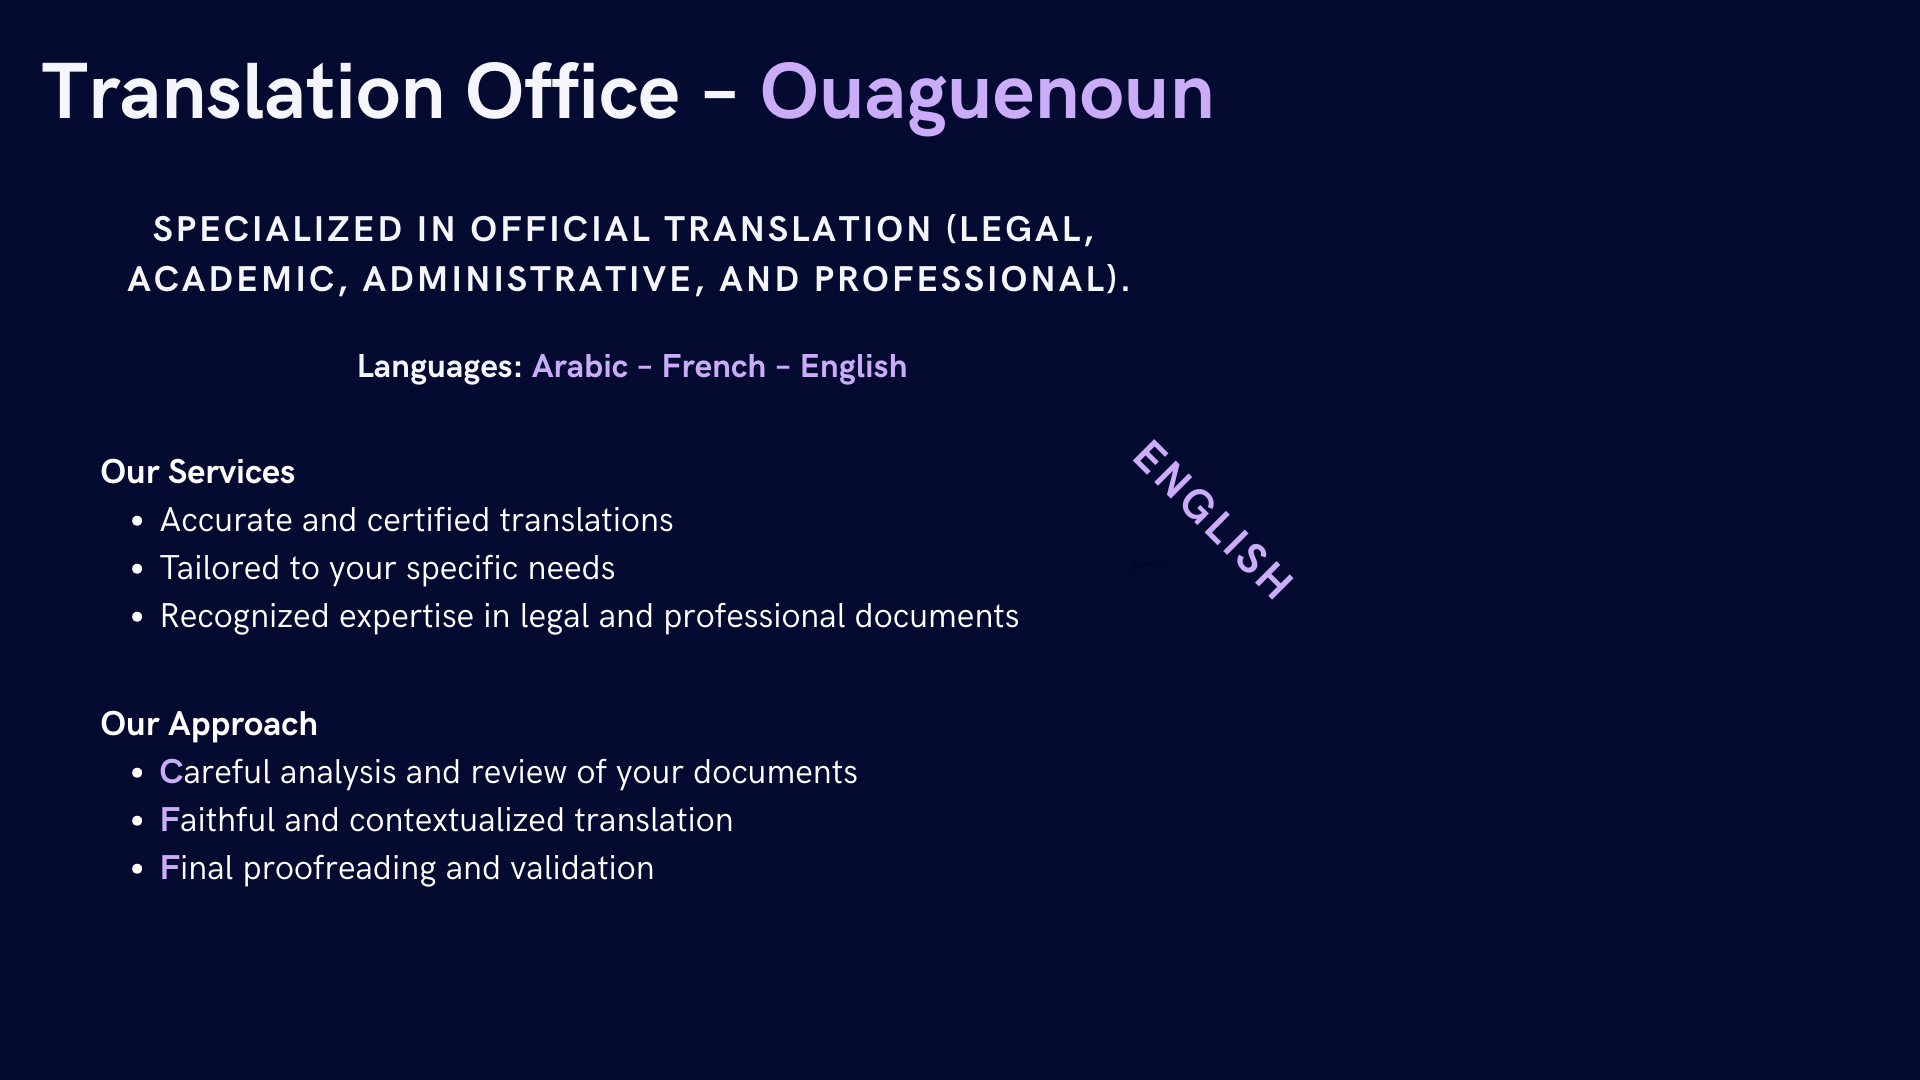
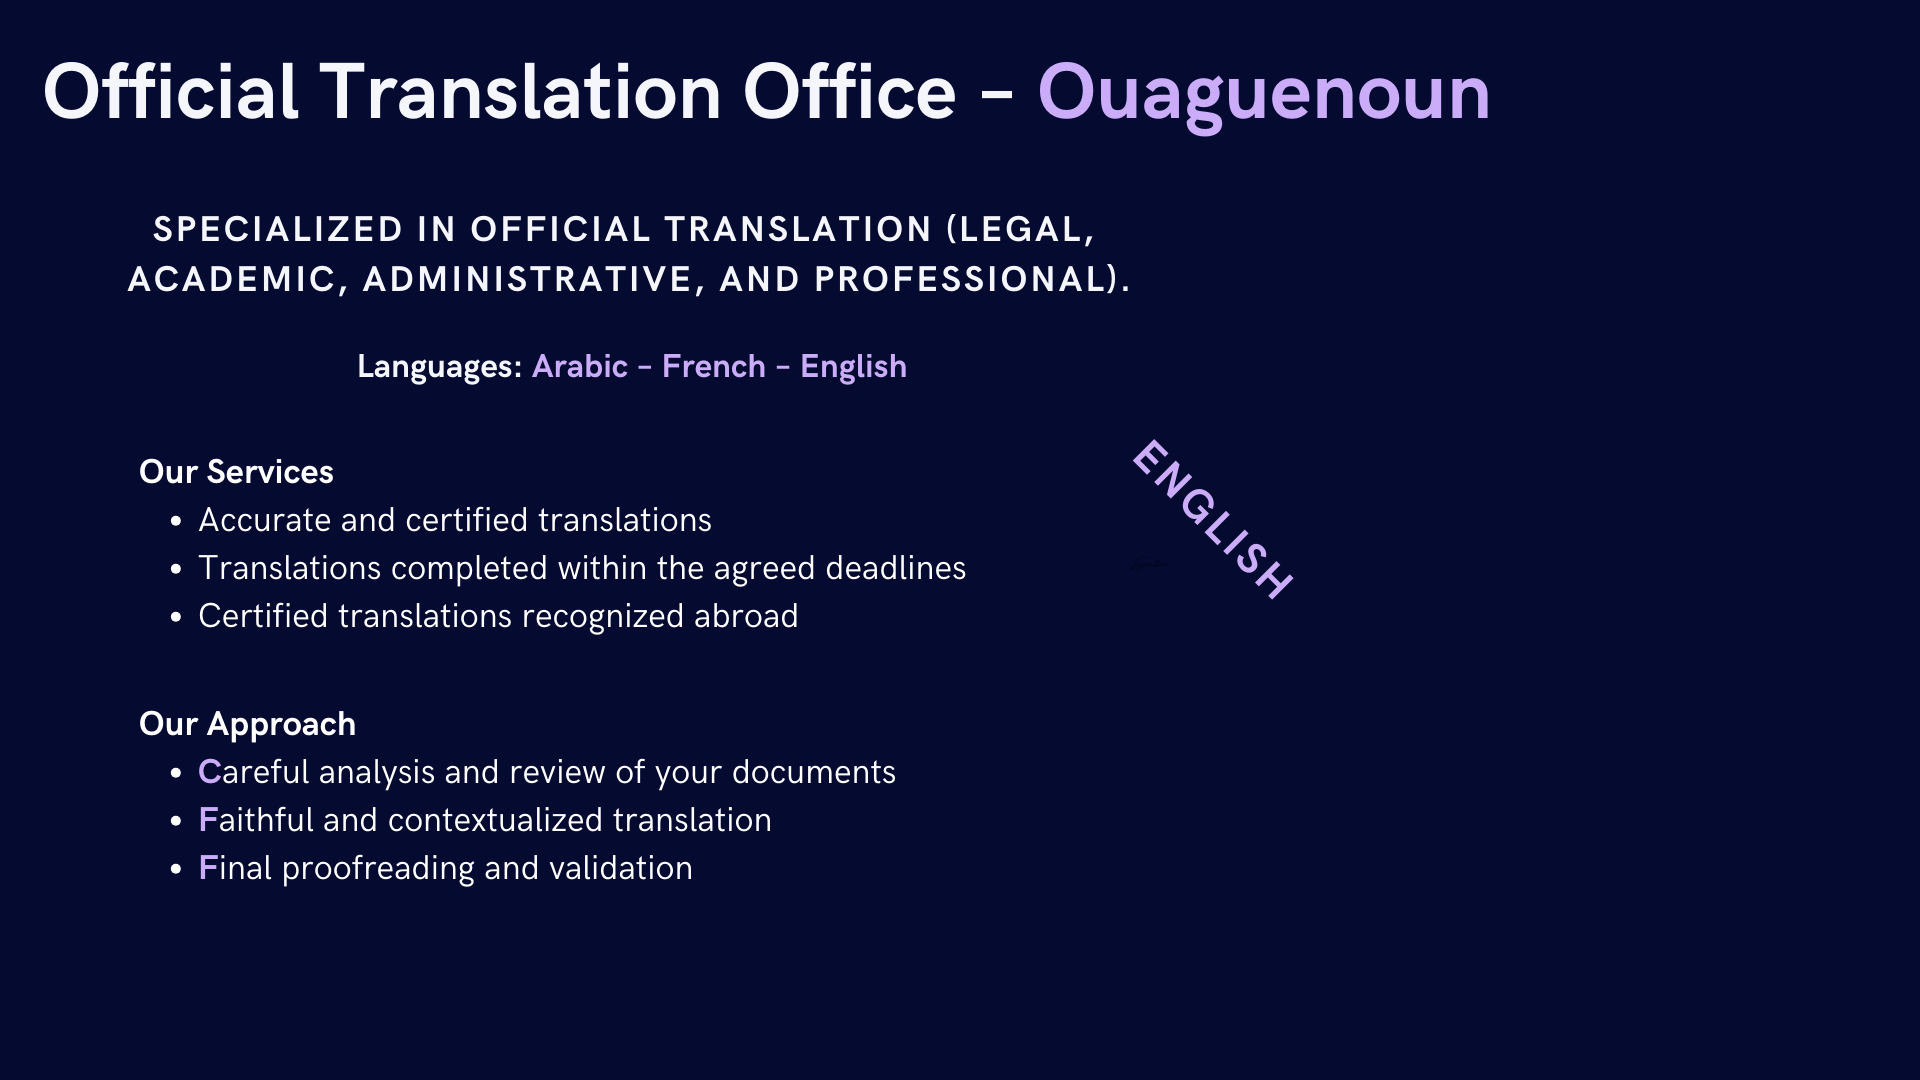
translations updates

Changed region(s): [[0.0625, 0.6417, 0.4688, 0.825], [0.0, 0.0611, 0.7812, 0.1222], [0.0625, 0.4278, 0.5312, 0.5806]]

diff --git a/src/data/index.ts b/src/data/index.ts
@@ -5,7 +5,7 @@ export const gridItems = [
     id: 1,
     // title: "De l’arabe au français, de l’académique au juridique, nous traduisons tout.",
     title: {
-       fr: "",
+      fr: "",
       en: "",
       ar: "",
     },
@@ -13,7 +13,7 @@ export const gridItems = [
     //    fr: "De l’arabe au français, de l’académique au juridique, nous traduisons tout.",
     //   en: "From Arabic to French, from academic to legal, we translate everything.",
     //   ar: "من العربية إلى الفرنسية، ومن الأكاديمية إلى القانونية، نترجم كل شيء."
-    
+
     // },
     description: {
       fr: "",
@@ -29,9 +29,9 @@ export const gridItems = [
   {
     id: 2,
     title: {
-      fr: "Vos documents, compris partout dans le monde",
-      en: "Your documents, understood worldwide",
-      ar: "مستنداتكم مفهومة في جميع أنحاء العالم"
+      fr: "Traductions officielles reconnues à l’étranger",
+      en: "Official translations valid abroad",
+      ar: "ترجمات رسمية معترف بها في الخارج"
     },
     description: {
       fr: "",
@@ -61,13 +61,13 @@ export const gridItems = [
     // titleClassName: "justify-center",
     // img: "/grid.svg",
     // spareImg: "",
-        id: 3,
+    id: 3,
     // title: "De l’arabe au français, de l’académique au juridique, nous traduisons tout.",
     title: {
-       fr: "De l’arabe au français, de l’académique au juridique, nous traduisons tout.",
-      en: "From Arabic to French, from academic to legal, we translate everything.",
-      ar: "من العربية إلى الفرنسية، ومن الأكاديمية إلى القانونية، نترجم كل شيء."
-    
+      fr: "Les mots changent, le sens demeure",
+      en: "Words change, the meaning remains",
+      ar: "الكلمات تتغير، لكن المعنى يبقى"
+
     },
     description: {
       fr: "",
@@ -175,75 +175,75 @@ export const rightLists = [
 ];
 
 export const services = [
-  { 
-    id: 1, 
+  {
+    id: 1,
     title: {
       fr: "Traduction Juridique",
       en: "Legal Translation",
       ar: "الترجمة القانونية"
-    }, 
-    icon: Scale, 
+    },
+    icon: Scale,
     desc: {
       fr: "Traduction précise et fidèle de contrats, jugements, lois, actes notariés et autres documents légaux, en respectant la terminologie juridique.",
       en: "Accurate and faithful translation of contracts, judgments, laws, notarial acts, and other legal documents, respecting legal terminology.",
       ar: "ترجمة دقيقة وموثوقة للعقود والأحكام والقوانين والمستندات الموثقة وغيرها من الوثائق القانونية، مع احترام المصطلحات القانونية."
-    } 
+    }
   },
-  { 
-    id: 2, 
+  {
+    id: 2,
     title: {
       fr: "Traduction Académique",
       en: "Academic Translation",
       ar: "الترجمة الأكاديمية"
-    }, 
-    icon: GraduationCap, 
+    },
+    icon: GraduationCap,
     desc: {
       fr: "Traduction rigoureuse de mémoires, thèses, articles scientifiques et supports pédagogiques, adaptée aux exigences académiques et universitaires.",
       en: "Rigorous translation of dissertations, theses, scientific articles, and educational materials, tailored to academic and university standards.",
       ar: "ترجمة دقيقة للأطروحات والرسائل الجامعية والمقالات العلمية والمواد التعليمية، بما يتوافق مع المعايير الأكاديمية والجامعية."
-    } 
+    }
   },
-  { 
-    id: 3, 
+  {
+    id: 3,
     title: {
       fr: "Traduction Professionnelle",
       en: "Professional Translation",
       ar: "الترجمة المهنية"
-    }, 
-    icon: Briefcase, 
+    },
+    icon: Briefcase,
     desc: {
       fr: "Traduction de rapports d’entreprise, manuels techniques, présentations et correspondances professionnelles, avec un vocabulaire clair et adapté au contexte.",
       en: "Translation of business reports, technical manuals, presentations, and professional correspondence, with clear and context-appropriate vocabulary.",
       ar: "ترجمة تقارير الشركات والدلائل التقنية والعروض التقديمية والمراسلات المهنية، باستخدام مصطلحات واضحة ومناسبة للسياق."
-    } 
+    }
   },
-  { 
-    id: 4, 
+  {
+    id: 4,
     title: {
       fr: "Traduction Administrative",
       en: "Administrative Translation",
       ar: "الترجمة الإدارية"
-    }, 
-    icon: FileText, 
+    },
+    icon: FileText,
     desc: {
       fr: "Traduction certifiée de certificats, attestations, formulaires et dossiers officiels destinés aux administrations et organismes publics ou privés.",
       en: "Certified translation of certificates, attestations, forms, and official files intended for public or private administrations and organizations.",
       ar: "ترجمة معتمدة للشهادات والإفادات والنماذج والملفات الرسمية الموجهة للإدارات والهيئات العامة أو الخاصة."
-    } 
+    }
   },
-  { 
-    id: 5, 
+  {
+    id: 5,
     title: {
       fr: "Autres",
       en: "Others",
       ar: "أخرى"
-    }, 
-    icon: Globe, 
+    },
+    icon: Globe,
     desc: {
       fr: "Traduction sur mesure de tout type de document, selon vos besoins spécifiques, qu’il soit personnel, professionnel ou institutionnel.",
       en: "Tailor-made translation of any type of document, according to your specific needs, whether personal, professional, or institutional.",
       ar: "ترجمة مخصصة لأي نوع من المستندات، وفقًا لاحتياجاتكم الخاصة، سواء كانت شخصية أو مهنية أو مؤسساتية."
-    } 
+    }
   }
 ];
 

diff --git a/src/seo/metadata.ts b/src/seo/metadata.ts
@@ -4,11 +4,11 @@ const baseUrl = "https://bia-traduction-r8gl.vercel.app";
 
 export const seoMetadata: Record<string, Metadata> = {
   fr: {
-    title: "Bureau de Traduction – Ouaguenoun – Maître Bia",
+    title: "Office de traduction officiel – Ouaguenoun – Maître Bia",
     description:
       "Spécialiste de la traduction de documents juridiques, académiques, administratifs et professionnels. Disponible en Arabe, Français et Anglais.",
     keywords: [
-      "bureau de traduction",
+      "Office de traduction officiel",
       "traduction officielle",
       "traduction juridique",
       "traduction académique",
@@ -20,17 +20,17 @@ export const seoMetadata: Record<string, Metadata> = {
       "anglais",
     ],
     openGraph: {
-      title: "Bureau de Traduction – Maître Bia",
+      title: "Office de traduction officiel – Maître Bia",
       description:
         "Traductions précises et professionnelles en Arabe, Français et Anglais.",
       url: `${baseUrl}/fr`,
-      siteName: "Bureau de Traduction",
+      siteName: "Office de traduction officiel",
       images: [
         {
           url: `${baseUrl}/og-image-fr.jpg`,
           width: 1200,
           height: 630,
-          alt: "Bureau de Traduction – Maître Bia",
+          alt: "Office de traduction officiel – Maître Bia",
         },
       ],
       locale: "fr_FR",
@@ -47,7 +47,7 @@ export const seoMetadata: Record<string, Metadata> = {
   },
 
   ar: {
-    title: "مكتب الترجمة – واقنون – الأستاذ بيا",
+    title: "ديوان الترجمة الرسمية – واقنون – الأستاذ بية",
     description:
       "متخصصون في ترجمة الوثائق القانونية والأكاديمية والإدارية والمهنية. نقدم ترجمات دقيقة باللغات العربية والفرنسية والإنجليزية.",
     keywords: [
@@ -63,16 +63,16 @@ export const seoMetadata: Record<string, Metadata> = {
       "الإنجليزية",
     ],
     openGraph: {
-      title: "مكتب الترجمة – الأستاذ بيا",
+      title: "ديوان الترجمة الرسمية – الأستاذ بية",
       description: "ترجمات دقيقة واحترافية باللغات العربية والفرنسية والإنجليزية.",
       url: `${baseUrl}/ar`,
-      siteName: "مكتب الترجمة",
+      siteName: "ديوان الترجمة الرسمية",
       images: [
         {
           url: `${baseUrl}/og-image-ar.jpg`,
           width: 1200,
           height: 630,
-          alt: "مكتب الترجمة – الأستاذ بيا",
+          alt: "ديوان الترجمة الرسمية – الأستاذ بية",
         },
       ],
       locale: "ar_DZ",
@@ -89,11 +89,11 @@ export const seoMetadata: Record<string, Metadata> = {
   },
 
   en: {
-    title: "Translation Office – Ouaguenoun – Maître Bia",
+    title: "Official Translation Office – Ouaguenoun – Maître Bia",
     description:
       "Specialized in translating legal, academic, administrative, and professional documents. Accurate translations in Arabic, French, and English.",
     keywords: [
-      "translation office",
+      "Official Translation Office",
       "official translation",
       "legal translation",
       "academic translation",
@@ -105,16 +105,16 @@ export const seoMetadata: Record<string, Metadata> = {
       "English",
     ],
     openGraph: {
-      title: "Translation Office – Maître Bia",
+      title: "Official Translation Office – Maître Bia",
       description: "Accurate and professional translations in Arabic, French, and English.",
       url: `${baseUrl}/en`,
-      siteName: "Translation Office",
+      siteName: "Official Translation Office",
       images: [
         {
           url: `${baseUrl}/og-image-en.jpg`,
           width: 1200,
           height: 630,
-          alt: "Translation Office – Maître Bia",
+          alt: "Official Translation Office – Maître Bia",
         },
       ],
       locale: "en_US",

diff --git a/src/components/Services.tsx b/src/components/Services.tsx
@@ -14,9 +14,9 @@ export default async function Services() {
       </h1>
 
       {/* Intro */}
-      <div className="max-w-full pt-14 pb-6 px-4 md:px-8 lg:px-10"
+      <div className="max-w-full pt-14 pb-6 px-4 md:px-8 lg:px-10 flex justify-center"
         dir={local === "ar" ? "rtl" : "ltr"}>
-        <p className="text-neutral-700 dark:text-neutral-300 text-lg md:text-base">
+        <p className="text-neutral-700 max-w-3xl dark:text-neutral-300 text-center text-lg md:text-base">
           {t("description")}
         </p>
       </div>

diff --git a/src/components/FAQ.tsx b/src/components/FAQ.tsx
@@ -14,8 +14,7 @@ const FAQ = () => {
         })}
       </h1>
       {/* remove bg-white dark:bg-black */}
-      <Accordion type="single" collapsible className="w-full" 
-        >
+      <Accordion type="single" collapsible className="w-full" >
         {t.raw("items").map((item: any, index: number) => (
           <AccordionItem key={index} value={`faq-${index}`} 
           dir={locale === "ar" ? "rtl" : "ltr"}>

diff --git a/src/components/MobileNav.tsx b/src/components/MobileNav.tsx
@@ -44,7 +44,7 @@ const MobileNavigation = () => {
 
       <Sheet open={open} onOpenChange={setOpen}
       >
-        <SheetTrigger>
+        <SheetTrigger aria-label="nav-menu">
           <MagicButton
             title={""}
             icon={<MenuIcon />}
